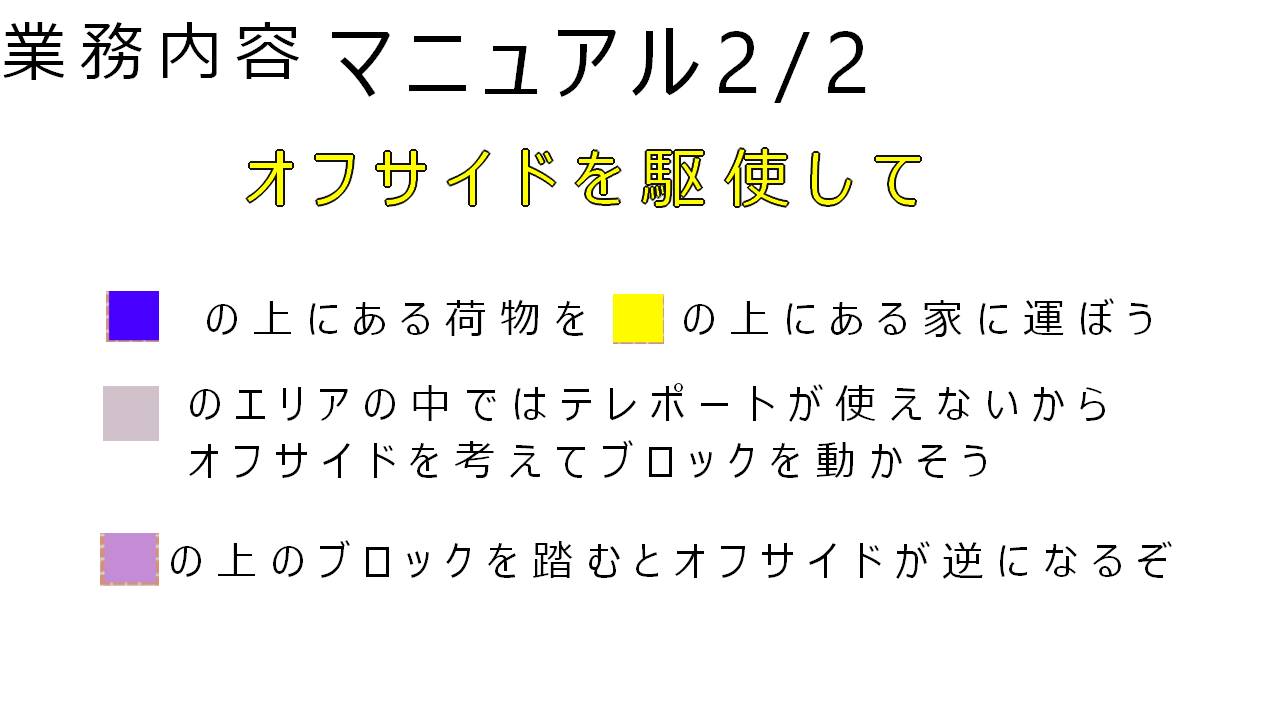
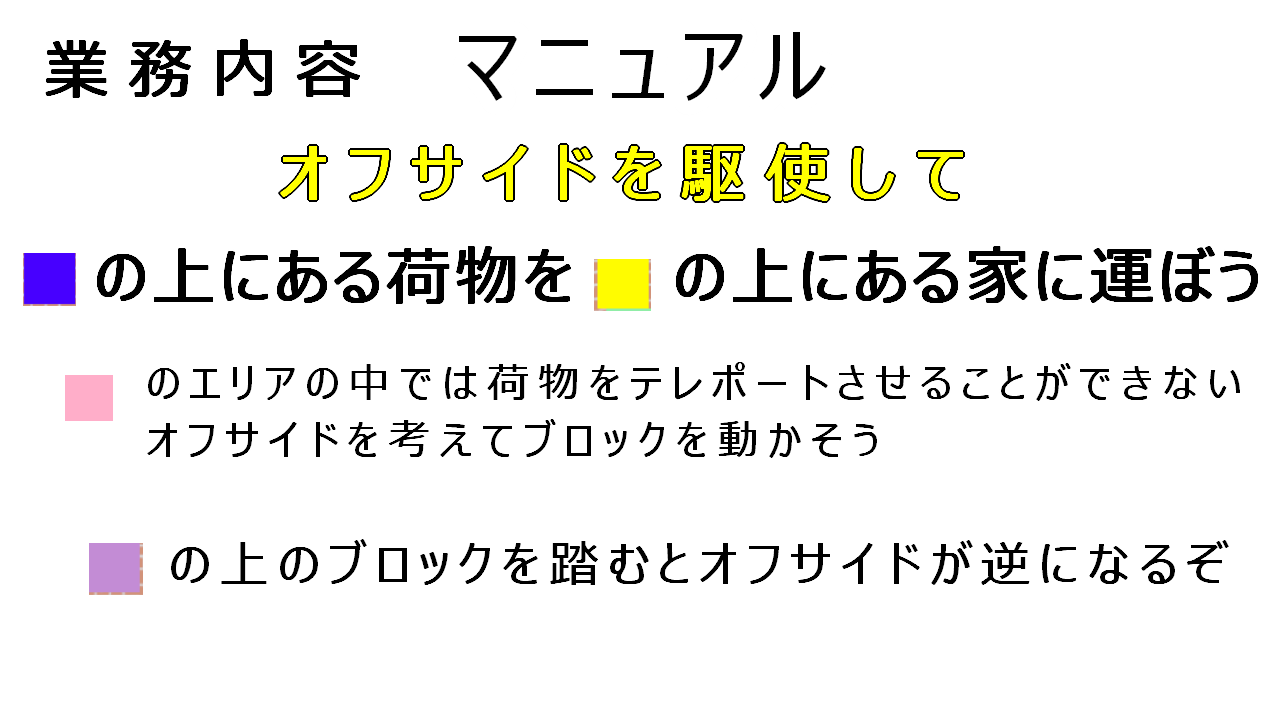
CameraComp

diff --git a/Project/Scene/Tutorial/Tutorial_01.cpp b/Project/Scene/Tutorial/Tutorial_01.cpp
@@ -7,6 +7,25 @@ void Tutorial01Scene::Initialize()
 	viewProjection_.translation_.y = 7;
 	viewProjection_.translation_.z = -39;
 	viewProjection_.UpdateMatrix();
+
+	pushASprite_ = make_unique<Sprite>();
+	uint32_t tex = TextureManager::LoadTexture("Resources/PushATex.png");
+	pushASprite_->SetTexHandle(tex);
+	pushASprite_->Initialize(new SpriteBoxState, { 0,0 }, { 1280, 720 });
+
+	pushAWorldTransform_.Initialize();
+	pushAWorldTransform_.scale = { 0.4f,0.4f,1.0f };
+	pushAWorldTransform_.translate = { 640,640,0 };
+	pushAWorldTransform_.UpdateMatrix();
+
+	tex = TextureManager::LoadTexture("Resources/Tutorial/TutorialRule.png");
+	explainSprite_ = make_unique<Sprite>();
+	explainSprite_->SetTexHandle(tex);
+	explainSprite_->Initialize(new SpriteBoxState, { 0,0 }, { 1280,720 });
+
+	explainWorldTransform.Initialize();
+	explainWorldTransform.translate = { 640,360,0 };
+	explainWorldTransform.UpdateMatrix();
 }
 
 void Tutorial01Scene::Update(GameManager* Scene)
@@ -15,7 +34,7 @@ void Tutorial01Scene::Update(GameManager* Scene)
 	XINPUT_STATE joyState{};
 	if (SceneChange::GetScenChangeFlag())
 	{
-		Scene->ChangeState(new TitleScene);
+		Scene->ChangeState(new SelectScene);
 		return;
 	}
 	Input::NoneJoyState(joyState);
@@ -31,6 +50,8 @@ void Tutorial01Scene::Update(GameManager* Scene)
 	SkyBox::Update();
 	Ground::Update();
 	TruckManager::Update();
+	explainWorldTransform.UpdateMatrix();
+	pushAWorldTransform_.UpdateMatrix();
 	viewProjection_.UpdateMatrix();
 }
 
@@ -40,13 +61,14 @@ void Tutorial01Scene::Back2dSpriteDraw()
 
 void Tutorial01Scene::Object3dDraw()
 {
-}
-
-void Tutorial01Scene::Flont2dSpriteDraw()
-{
 	TruckManager::Draw(viewProjection_);
 
 	SkyBox::Draw(viewProjection_);
 	Ground::Draw(viewProjection_);
+}
 
+void Tutorial01Scene::Flont2dSpriteDraw()
+{
+	explainSprite_->Draw(explainWorldTransform);
+	pushASprite_->Draw(pushAWorldTransform_);
 }

diff --git a/Project/Scene/GameScene.cpp b/Project/Scene/GameScene.cpp
@@ -103,6 +103,13 @@ void GameScene::Initialize()
 	playerCamera_ = make_unique<PlayerCamera>();
 	playerCamera_->Initialize();
 
+	uint32_t tex = TextureManager::LoadTexture("Resources/ContorolExplain.png");
+	contorolSprite_ = make_unique<Sprite>();
+	contorolSprite_->SetTexHandle(tex);
+	contorolSprite_->Initialize(new SpriteBoxState, { 0,0 }, { 1280,720 });
+	contorolWorldTransform_.Initialize();
+	contorolWorldTransform_.translate.x = 640;
+	contorolWorldTransform_.translate.y = 360;
 	viewProjection_.Initialize();
 	viewProjection_.translation_.x = 7;
 	viewProjection_.translation_.y = 7;
@@ -175,6 +182,7 @@ void GameScene::Update(GameManager* Scene)
 	Ground::Update();
 	TruckManager::Update();
 
+	contorolWorldTransform_.UpdateMatrix();
 	viewProjection_.UpdateMatrix();
 	viewProjection_ = playerCamera_->GetViewProjection();
 
@@ -243,6 +251,7 @@ void GameScene::Object3dDraw()
 
 void GameScene::Flont2dSpriteDraw()
 {
+	contorolSprite_->Draw(contorolWorldTransform_);
 }
 
 void GameScene::Collision()

diff --git a/Project/GameObject/Player/Player.cpp b/Project/GameObject/Player/Player.cpp
@@ -276,9 +276,10 @@ void Player::GamePadContorol()
 {
 	XINPUT_STATE joyState{};
 	Input::NoneJoyState(joyState);
+	float x = 0;
 	if (Input::GetInstance()->GetJoystickState(joyState))
 	{
-		velocity_.x += (float)joyState.Gamepad.sThumbLX / SHRT_MAX * speed;
+		x += (float)joyState.Gamepad.sThumbLX / SHRT_MAX * speed;
 
 		if (joyState.Gamepad.wButtons & XINPUT_GAMEPAD_A && !isJamp)
 		{
@@ -287,6 +288,12 @@ void Player::GamePadContorol()
 			isJamp = true;
 		}
 	}
+	if (x < 0.1f&&x>0.1f)
+	{
+		x = 0.0f;
+	}
+
+	velocity_.x += x;
 }
 
 void Player::Jamp()

diff --git a/Project/Scene/SelectScene/SelectScene.cpp b/Project/Scene/SelectScene/SelectScene.cpp
@@ -77,10 +77,6 @@ void SelectScene::Update(GameManager* Scene)
 	SelectParam_[SelectNumber].IsSelect = true;
 	worldTransform_[SelectNumber].scale = { 1.2f,1.2f,1.0f };
 
-	ImGui::Begin("camera");
-	ImGui::SliderFloat3("r", &viewProjection_.rotation_.x,-2.0f,2.0f);
-	ImGui::DragFloat3("t", &viewProjection_.translation_.x, -2.0f, 2.0f);
-	ImGui::End();
 
 	Matrix4x4 r = MatrixTransform::RotateZMatrix(float(numbers::pi/2));
 	Matrix4x4 t = MatrixTransform::TranslateMatrix(worldTransform_[0].translate);

diff --git a/Project/GameObject/Ground/Ground.cpp b/Project/GameObject/Ground/Ground.cpp
@@ -24,12 +24,6 @@ void Ground::Initialize()
 
 void Ground::Update()
 {
-	ImGui::Begin("Ground");
-
-	ImGui::DragFloat3("s", &Ground::GetInstance()->uvScale_.x,-1.0f,1.0f);
-	Ground::GetInstance()->model_->SetUvScale(Ground::GetInstance()->uvScale_);
-	ImGui::End();
-
 	Ground::GetInstance()->road_->Update();
 	Ground::GetInstance()->worldTransform_.UpdateMatrix();
 }

diff --git a/Project/GameObject/InvertionSwich/InvertionSwich.cpp b/Project/GameObject/InvertionSwich/InvertionSwich.cpp
@@ -6,7 +6,7 @@ void InvertionSwich::Initialize(Vector3 pos)
 {
 	pos;
 	model_ = make_unique<Model>();
-	model_->CreateFromObj("InvertionSwich");//Foundation");
+	model_->CreateFromObj("InvertionSwich");
 	worldTransform_.Initialize();
 	worldTransform_.translate = pos;
 	worldTransform_.UpdateMatrix();

diff --git a/Project/Scene/Tutorial/Tutorial_01.h b/Project/Scene/Tutorial/Tutorial_01.h
@@ -24,4 +24,9 @@ public:
 private:
 
 	ViewProjection viewProjection_{};
+	unique_ptr<Sprite>explainSprite_ = nullptr;
+	WorldTransform explainWorldTransform = {};
+
+	unique_ptr<Sprite>pushASprite_ = nullptr;
+	WorldTransform pushAWorldTransform_{};
 };

diff --git a/Project/Scene/Title/TitleScene.cpp b/Project/Scene/Title/TitleScene.cpp
@@ -2,6 +2,8 @@
 
 void TitleScene::Initialize()
 {
+	WinApp::SetTiTleName(L"オフサイド運送株式会社");
+
 	DebugCamera* Camera;
 	Camera = new DebugCamera();
 	Camera->Initialize();

diff --git a/Project/Scene/GameScene.h b/Project/Scene/GameScene.h
@@ -54,4 +54,6 @@ private:
 
 	bool isReset_ = false;
 
+	unique_ptr<Sprite>contorolSprite_ = nullptr;
+	WorldTransform contorolWorldTransform_{};
 };
